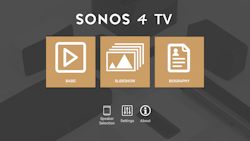
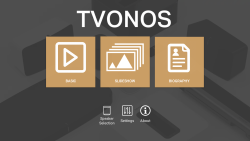
Sonos

diff --git a/README.md b/README.md
@@ -1,8 +1,8 @@
-![Sonos 4 TV](images/sonos4tv-logo-small.png)
+![TVONOS](images/tvonos-logo-small.png)
 
-# Sonos 4 TV Public Information
+# TVONOS Public Information
 
-Welcome to Sonos 4 TV. The App is designed to work with the excellent Sonos system and be a companion (not replacement) to the official Sonos Apps. The focus is on providing media rich displays on your TV for tracks playing on your Sonos system.
+Welcome to TVONOS. The App is designed to work with the excellent Sonos system and be a companion (not replacement) to the official Sonos Apps. The focus is on providing media rich displays on your TV for tracks playing on your Sonos system.
 
 Currently Supported on:
 * Android TV - OS version 9 (Pie) and above
